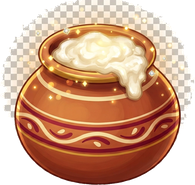
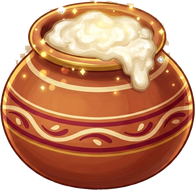
Clean the filled pot, glaze both, widen the panel, give her a stride
The filled pot arrived with the same painted glow as the tableau, and
--largest could not drop it because the glow is joined to the pot: it
shipped inside a ragged oval of cream and chequerboard. --halo 150
crosses it. The butter survives that on being enclosed by the rim
rather than on being dark, and anything higher starts leaving cells of
chequerboard round the top - at 175 they are plainly visible.

Both pots now catch the light, by laying a second copy of each over
itself in ADD blend mode and breathing it in and out. Additive rather
than a drawn highlight because the copy is the same picture, so it can
only brighten pixels the pot already has - the shine cannot spill past
the rim and needs no mask. Both renderers support ADD, which Phaser's
own Shine effect does not: that is WebGL only and this falls back to
Canvas on some devices. The empty pots are glazed more faintly and
keep their dulling, or an unearned slot would be the brightest thing
on the panel.

The panel goes from 460 to 560. A star is mostly empty space around
its points and sat happily inside the old one; a pot is solid to its
edges and was overhanging. The pots sit centred on the wooden field,
NOT on the three stars carved into the bottom border - that was tried,
and those are ornament, cut in the same way as the gems and the
peacock feathers, so covering them only dragged the pots down over the
edge of the field.

Mother walks rather than slides. There is one drawing of her, not a
[…]

diff --git a/src/scenes/LevelCompleteScene.js b/src/scenes/LevelCompleteScene.js
@@ -24,6 +24,20 @@ const STAR_DELAY = 400;
 // needs the extra size to still read at a glance.
 const POT_WIDTH = 104;
 
+// Room for three of those plus the gaps between them and the panel's own
+// carved border. A star is mostly empty space around its points and sat
+// happily on a 460 panel; a pot is solid to its edges and was overhanging.
+const POT_GAP = 126;
+const PANEL_WIDTH = 560;
+
+// The shine. Phaser's own Shine effect is WebGL-only and the game falls back
+// to Canvas on some devices, so this is done with a second copy of the pot
+// drawn in ADD blend mode over the first, breathing in and out. Additive
+// blending is supported by both renderers, and because the copy is the same
+// picture it can only brighten what is already there - no highlight can land
+// off the pot or across its outline.
+const GLAZE_MS = 1500;
+
 export default class LevelCompleteScene extends Phaser.Scene{
 
     constructor(){
@@ -108,6 +122,8 @@ export default class LevelCompleteScene extends Phaser.Scene{
         // The score, in pots
         //---------------------------------
         //
+        // See glaze() below for how the pots are made to catch the light.
+        //
         // Three pots rather than three stars: what the run is scored on is how
         // much butter was got away with, so an empty pot for one not earned
         // and a full one for one that was says it in the game's own terms.
@@ -116,24 +132,30 @@ export default class LevelCompleteScene extends Phaser.Scene{
 
         fitWidth(
             this.add.image(GAME_WIDTH/2, panelY, "starPanel"),
-            460
+            PANEL_WIDTH
         );
 
-        // Sit ON the small stars painted into the panel art, not above them.
-        // The panel was drawn back when the score was in stars, and leaving
-        // them showing under a row of pots reads as a half-finished change.
-        const potY = panelY + 4;
+        // Centred on the wooden field, which sits a little above the middle of
+        // the art because the frame hangs lower than it rises.
+        //
+        // Not centred on the three stars carved into the bottom border, which
+        // was tried: those are ornament, cut into the frame the same way the
+        // gems and the peacock feathers are, and covering them only dragged
+        // the pots down out of the field and over the edge.
+        const potY = panelY - 12;
 
         for(let i=0;i<3;i++){
 
-            const x = GAME_WIDTH/2 - 120 + i * 120;
+            const x = GAME_WIDTH/2 - POT_GAP + i * POT_GAP;
 
             // Dulled and knocked back, so an unearned pot reads as an empty
             // slot rather than as another piece of pottery on the shelf.
-            fitWidth(
+            const empty = fitWidth(
                 this.add.image(x, potY, "potEmpty"),
                 POT_WIDTH
             ).setTint(0x9b8f7e).setAlpha(0.9);
+
+            this.glaze(empty, "potEmpty", 0.18);
 
             if(i < data.stars){
 
@@ -162,8 +184,17 @@ export default class LevelCompleteScene extends Phaser.Scene{
 
                         onComplete: ()=>{
 
+                            // Only now, once the pot is at its full size.
+                            // Glazing it up front left a bright ghost of the
+                            // pot sitting on the panel before the pot itself
+                            // had been awarded.
+                            const shine = this.glaze(pot, "potFull", 0.34);
+
+                            // The shine is a separate object lying on top, so
+                            // it has to be rocked with the pot or it slides
+                            // off it for the length of the wobble.
                             this.tweens.add({
-                                targets: pot,
+                                targets: [pot, shine],
                                 angle: 10,
                                 duration: 100,
                                 yoyo: true,
@@ -323,6 +354,52 @@ export default class LevelCompleteScene extends Phaser.Scene{
             this.scene.start("HomeScene");
 
         });
+
+    }
+
+    //------------------------------------------------
+
+    /**
+     * Makes a pot catch the light, by laying a second copy of it over the
+     * first in ADD blend mode and breathing that copy in and out.
+     *
+     * Additive rather than a drawn highlight because the copy is the same
+     * picture: it can only brighten pixels the pot already has, so the shine
+     * cannot spill past the rim or sit on the wrong part of the shape, and it
+     * needs no mask. Both renderers support ADD, which Phaser's own Shine
+     * effect does not - that one is WebGL only, and the game falls back to
+     * Canvas on some devices.
+     *
+     * @param pot    the pot already placed and sized
+     * @param key    its texture, so the copy matches exactly
+     * @param peak   how bright the shine gets - the full pot is given more
+     *               than the empty one, since it is the one worth looking at
+     */
+    glaze(pot, key, peak){
+
+        const shine = this.add.image(pot.x, pot.y, key)
+            .setScale(pot.scale)
+            .setBlendMode(Phaser.BlendModes.ADD)
+            .setAlpha(0);
+
+        // The empty pots are dulled, and a shine that ignored that would make
+        // an unearned slot the brightest thing on the panel.
+        if(pot.tintTopLeft !== 0xffffff){
+
+            shine.setTint(pot.tintTopLeft);
+
+        }
+
+        this.tweens.add({
+            targets: shine,
+            alpha: peak,
+            duration: GLAZE_MS,
+            yoyo: true,
+            repeat: -1,
+            ease: "Sine.easeInOut"
+        });
+
+        return shine;
 
     }
 

diff --git a/src/game/MotherWatch.js b/src/game/MotherWatch.js
@@ -47,6 +47,17 @@ const ARRIVE_MS = 420;
 const WALK_LEAD_MS = 400;
 const WALK_TAIL_MS = 800;
 
+// The stride. There is one drawing of her walking, not a sheet, so the walk
+// has to come from how the drawing is moved rather than from frames.
+//
+// A body rises and falls once per step, and rocks towards whichever foot is
+// down. Both are small on purpose: at this size the shapes read from across
+// the room, and anything bigger stops looking like walking and starts looking
+// like limping. STEP_MS is one half-step, so a full cycle is two of them.
+const STEP_MS = 260;
+const STEP_RISE = 9;
+const STEP_ROCK = 1.8;
+
 // Gap after she leaves before the next warning can be scheduled
 const SETTLE_MS = 900;
 
@@ -269,8 +280,68 @@ export default class MotherWatch {
             x: GAME_WIDTH + half,
             duration: WALK_LEAD_MS + this.watch + WALK_TAIL_MS,
             ease: "Linear",
-            onComplete: ()=> this.figure.setAlpha(0)
+            onComplete: ()=>{
+
+                this.figure.setAlpha(0);
+                this.stopStride();
+
+            }
         });
+
+        this.startStride();
+
+    }
+
+    //------------------------------------------------
+
+    /**
+     * The walk itself: a rise and fall, and a rock from foot to foot.
+     *
+     * Separate tweens from the one carrying her across, so that the crossing
+     * stays perfectly linear underneath - a walk is a steady journey with a
+     * body bobbing on top of it, not a journey that speeds up and slows down.
+     * Sine easing because a stride has no corners in it.
+     */
+    startStride(){
+
+        this.stopStride();
+
+        const floor = GAME_HEIGHT;
+
+        this.figure.setY(floor).setAngle(0);
+
+        this.stride = [
+
+            this.scene.tweens.add({
+                targets: this.figure,
+                y: floor - STEP_RISE,
+                duration: STEP_MS,
+                yoyo: true,
+                repeat: -1,
+                ease: "Sine.easeInOut"
+            }),
+
+            // Twice the period of the rise: she rocks once per full stride,
+            // not once per step, or she wobbles like a metronome.
+            this.scene.tweens.add({
+                targets: this.figure,
+                angle: { from: -STEP_ROCK, to: STEP_ROCK },
+                duration: STEP_MS * 2,
+                yoyo: true,
+                repeat: -1,
+                ease: "Sine.easeInOut"
+            })
+
+        ];
+
+    }
+
+    //------------------------------------------------
+
+    stopStride(){
+
+        this.stride?.forEach(t => t.remove());
+        this.stride = null;
 
     }
 
@@ -315,6 +386,12 @@ export default class MotherWatch {
 
         // Stops her mid-stride, wherever across the room she had got to
         this.scene.tweens.killTweensOf(this.figure);
+
+        // Both feet down and upright. Without this she freezes at whatever
+        // point of the stride she happened to be at - mid-bob and tilted -
+        // and glares from there, which reads as a dropped frame.
+        this.stopStride();
+        this.figure.setY(GAME_HEIGHT).setAngle(0);
 
         // The scene has a tableau with both of them in it, so she is dropped
         // rather than left standing next to a picture of herself. The gloom
@@ -478,6 +555,7 @@ export default class MotherWatch {
 
         this.timers.forEach(t => t.remove(false));
         this.timers = [];
+        this.stopStride();
         this.state = "done";
 
     }

diff --git a/tools/build_assets.py b/tools/build_assets.py
@@ -131,6 +131,21 @@ SCENES = {
     "KrishnaCaught.png": (0, 150, [(692, 250, 812, 508)]),
 }
 
+# Art delivered with a soft glow painted round it on top of the chequerboard,
+# but which is otherwise a single object.
+#
+# The glow is warm, so no colour test calls it backdrop, and because it is
+# joined to the art --largest keeps it rather than dropping it: the filled pot
+# came out inside a ragged oval of cream and chequerboard. The value is the
+# floor on the darkest channel that the fill may cross.
+#
+# 150 clears the glow and leaves the butter, which survives on being enclosed
+# by the rim rather than on being dark. Anything higher starts leaving cells
+# of chequerboard round the top - at 175 they are plainly visible.
+GLOW = {
+    "filledpot.jpg": 150,
+}
+
 # Low enough that the fill stops at the art, high enough to cross the
 # backdrop's own noise. Measured at 0.6 levels between neighbours on the
 # white plates, so anything from 4 to 8 gives the same result.
@@ -208,6 +223,9 @@ def key():
 
         if name in SINGLE_SUBJECT:
             flags += ("--largest",)
+
+        if name in GLOW:
+            flags += ("--halo", str(GLOW[name]))
 
         if name in SCENES:
             pools, glow, pockets = SCENES[name]
